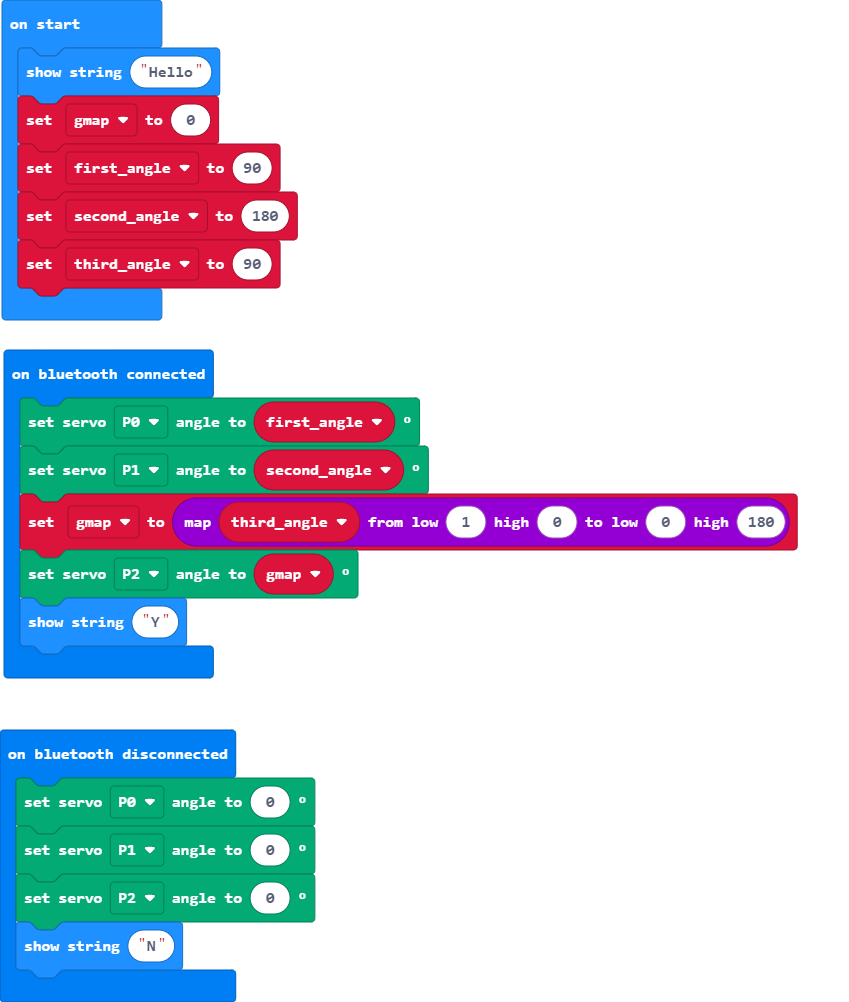
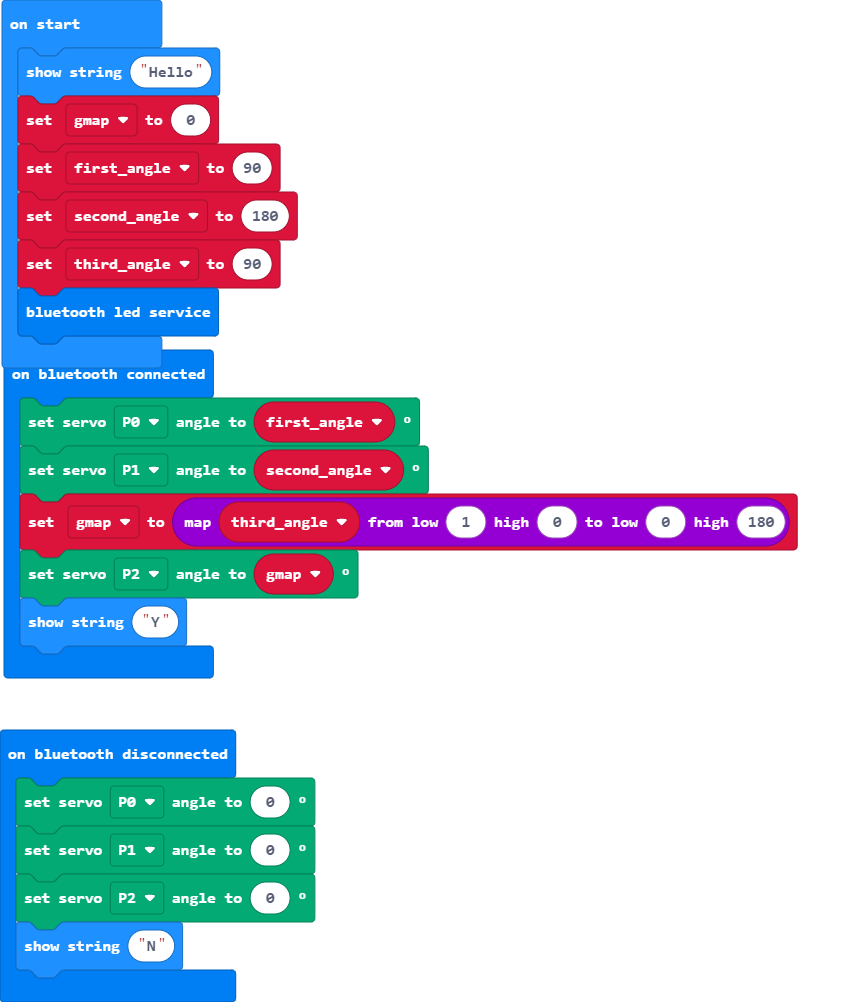
led service included for testing

Changed region(s): [[0.0, 0.2784, 0.2756, 0.3713]]

diff --git a/main.ts b/main.ts
@@ -20,3 +20,4 @@ gmap = 0
 first_angle = 90
 second_angle = 180
 third_angle = 90
+bluetooth.startLEDService()
